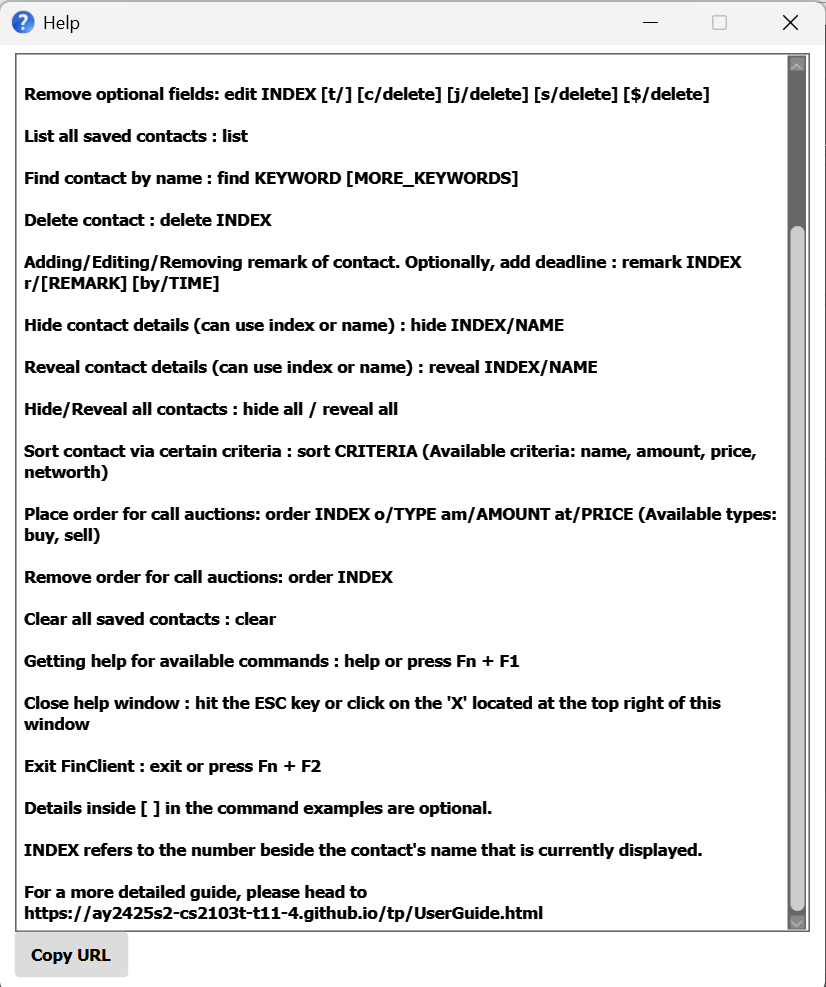
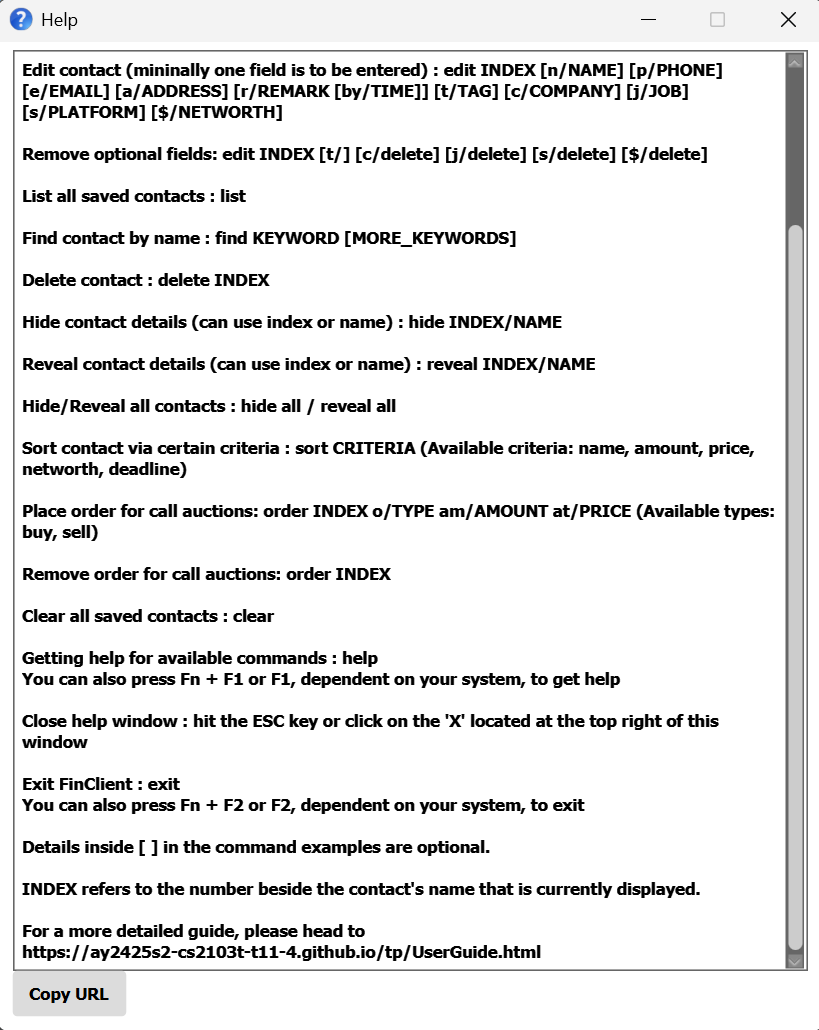
Fix Alpha Bug for displayed text

Changed region(s): [[0.0, 0.0, 1.0, 1.0]]

diff --git a/src/main/java/seedu/finclient/ui/HelpWindow.java b/src/main/java/seedu/finclient/ui/HelpWindow.java
@@ -62,10 +62,12 @@ public class HelpWindow extends UiPart<Stage> {
     public static final String CLEAR_SYNTAX = "clear";
 
     public static final String HELP_MESSAGE = "Getting help for available commands : ";
-    public static final String HELP_SYNTAX = "help or press Fn + F1";
+    public static final String HELP_SYNTAX = "help"
+            + "\nYou can also press Fn + F1 or F1, dependent on your system, to get help";
 
     public static final String EXIT_MESSAGE = "Exit FinClient : ";
-    public static final String EXIT_SYNTAX = "exit or press Fn + F2";
+    public static final String EXIT_SYNTAX = "exit"
+            + "\nYou can also press Fn + F2 or F2, dependent on your system, to exit";
 
     public static final String ESCAPE_MESSAGE = "Close help window : ";
     public static final String ESCAPE_SYNTAX = "hit the ESC key or click on the 'X'"
